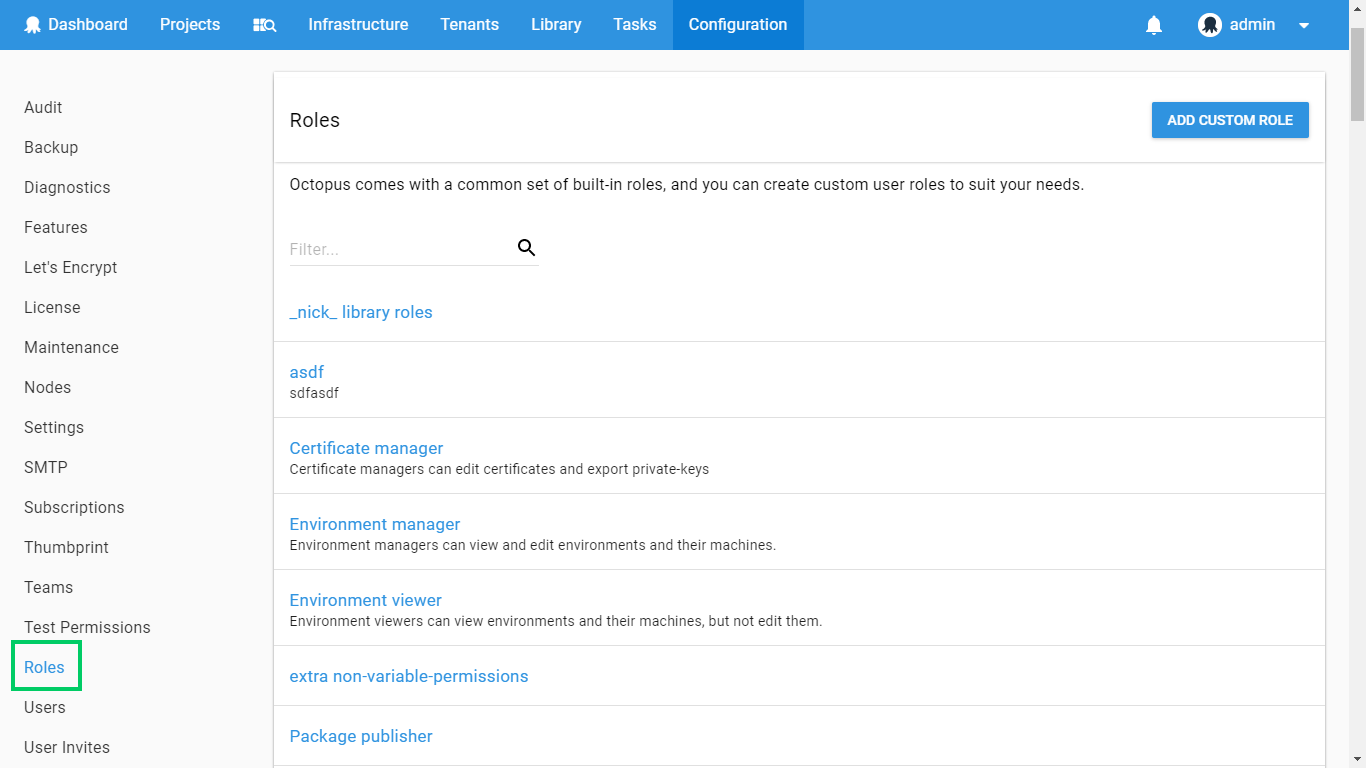
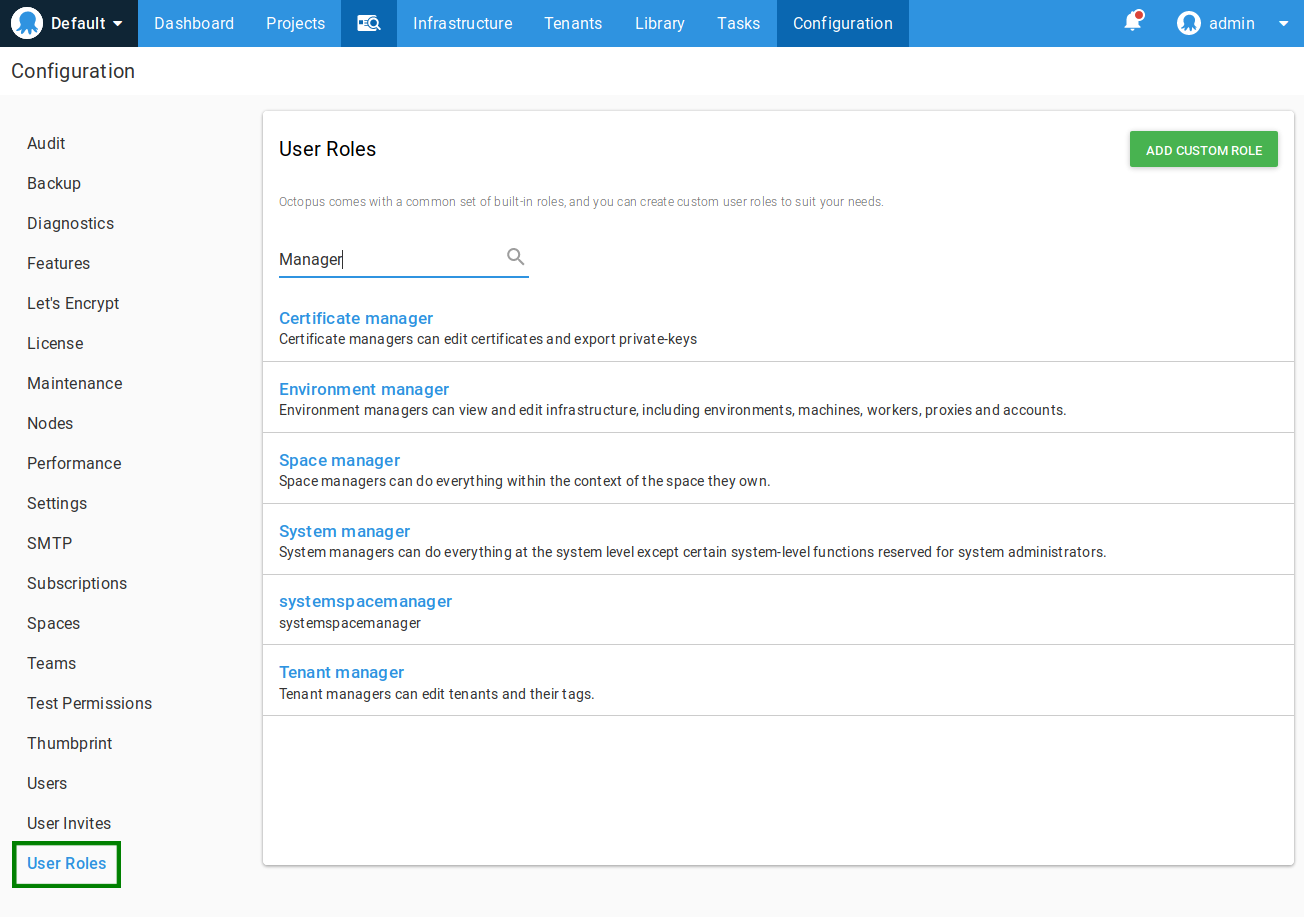
updated user roles page

diff --git a/docs/administration/managing-users-and-teams/user-roles.md b/docs/administration/managing-users-and-teams/user-roles.md
@@ -13,6 +13,7 @@ Octopus comes with a set of built-in User Roles that are designed to work for mo
 
 | User Role            | Description                              |
 | -------------------- | ---------------------------------------- |
+| Certificate Manager  | Certificate managers can edit certificates and export private-keys |
 | Environment Manager  | Environment managers can view and edit environments and their machines. |
 | Environment Viewer   | Environment viewers can view environments and their machines, but not edit them. |
 | Package Publisher    | Permits packages to be pushed to the Octopus Server's built-in NuGet feed. |
@@ -21,7 +22,12 @@ Octopus comes with a set of built-in User Roles that are designed to work for mo
 | Project Initiator    | All project viewer permissions, plus: create new projects. |
 | Project Deployer     | All project contributor permissions, plus: deploying releases, but not creating them. |
 | Project Lead         | All project contributor permissions, plus: creating releases, but not deploying them. |
-| System Administrator | System administrators can do everything. |
+| Space Manager        | Space managers can do everything within the context of the space they own. |
+| System Administrator | System administrators can do everything at the system level.  |
+| System manager       | System managers can do everything at the system level. |
+| Tenant manager       | Tenant managers can edit tenants and their tags |
+
+> For more information regarding the 'system or space level', please see [system and space permissions](./system-and-space-permissions)  
 
 The built-in User Roles can be modified to contain more or less roles to suit specific needs. But instead of modifying the built-in ones, we recommend that you leave them as an example and instead create your own User Roles.
 
@@ -35,13 +41,15 @@ A custom User Role can be created with any combination of permissions. To creat
 
 2. Click **Add custom role**.
 
-3. Select the set of permissions you'd like this new User Role to contain, and give the role a name and description.
+3. Select the set of permissions you'd like this new User Role to contain, and give the role a name and description. These can be system or space level permissions.
 
    ![](select-permissions.png "width=500")
 
-Once the custom role is saved, the new role will be available to be assigned to any team on Octopus.
+Once the custom role is saved, the new role will be available to be assigned to teams on Octopus. [Some rules apply](./system-and-space-permissions#SystemAndSpacePermissions-RulesOfTheRoad), depending on the mix of system or space level permission you chose.
 
-![](add-role.png "width=500")
+When applying roles to a team, you are able to optionally specify a scope for each role applied. This enables some complex scenarios, like allowing a team [different levels of permissions](./creating-teams-for-a-user-with-mixed-environment-privileges) based on the environment they are accessing.   
+
+![](define-scope-for-user-role.png "width=500")
 
 ## Troubleshooting Permissions {#UserRoles-TroubleshootingPermissions}
 

diff --git a/docs/administration/managing-users-and-teams/system-and-space-permissions.md b/docs/administration/managing-users-and-teams/system-and-space-permissions.md
@@ -34,7 +34,7 @@ As such, when creating a Team, the team can be marked as 'Accessible in all spac
 ## What does this mean for configuring User Roles & Teams?
 When we create or edit User Roles, we can choose a mixture of system and space level permission. Since not all scenarios are compatible when mixing system or space level concerns, some rules exist when applying user roles to team.
  
-### Rules of the road
+### Rules of the road {#SystemAndSpacePermissions-RulesOfTheRoad}
 When you're including a user role in a team, that role will apply at either the space or system level. 
 - If the role only contains system level permissions, then the role will be automatically applied at the system level.
     - Roles that exclusively contain system level permissions, can only be used for 'system only' teams.
